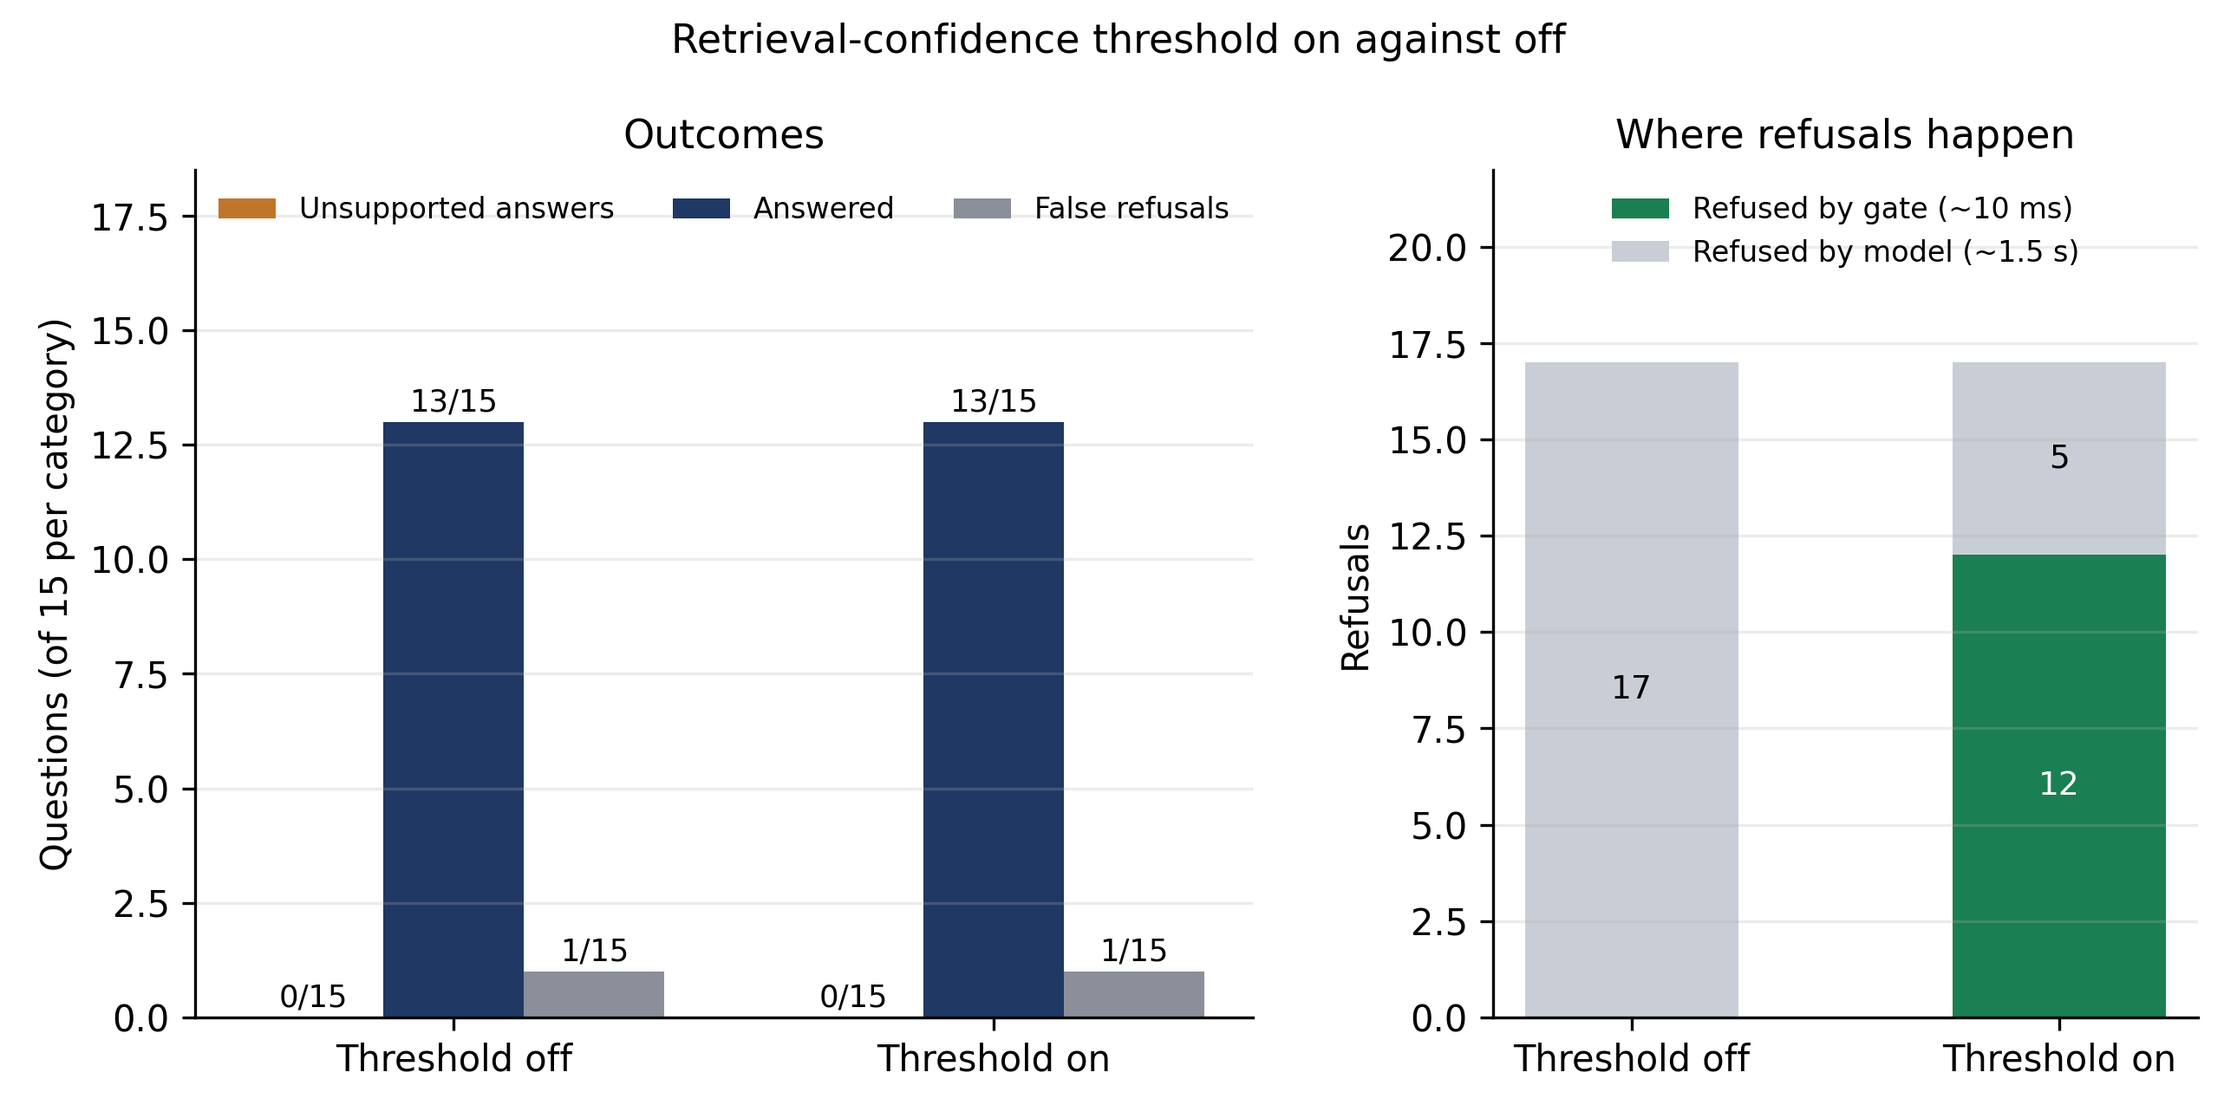
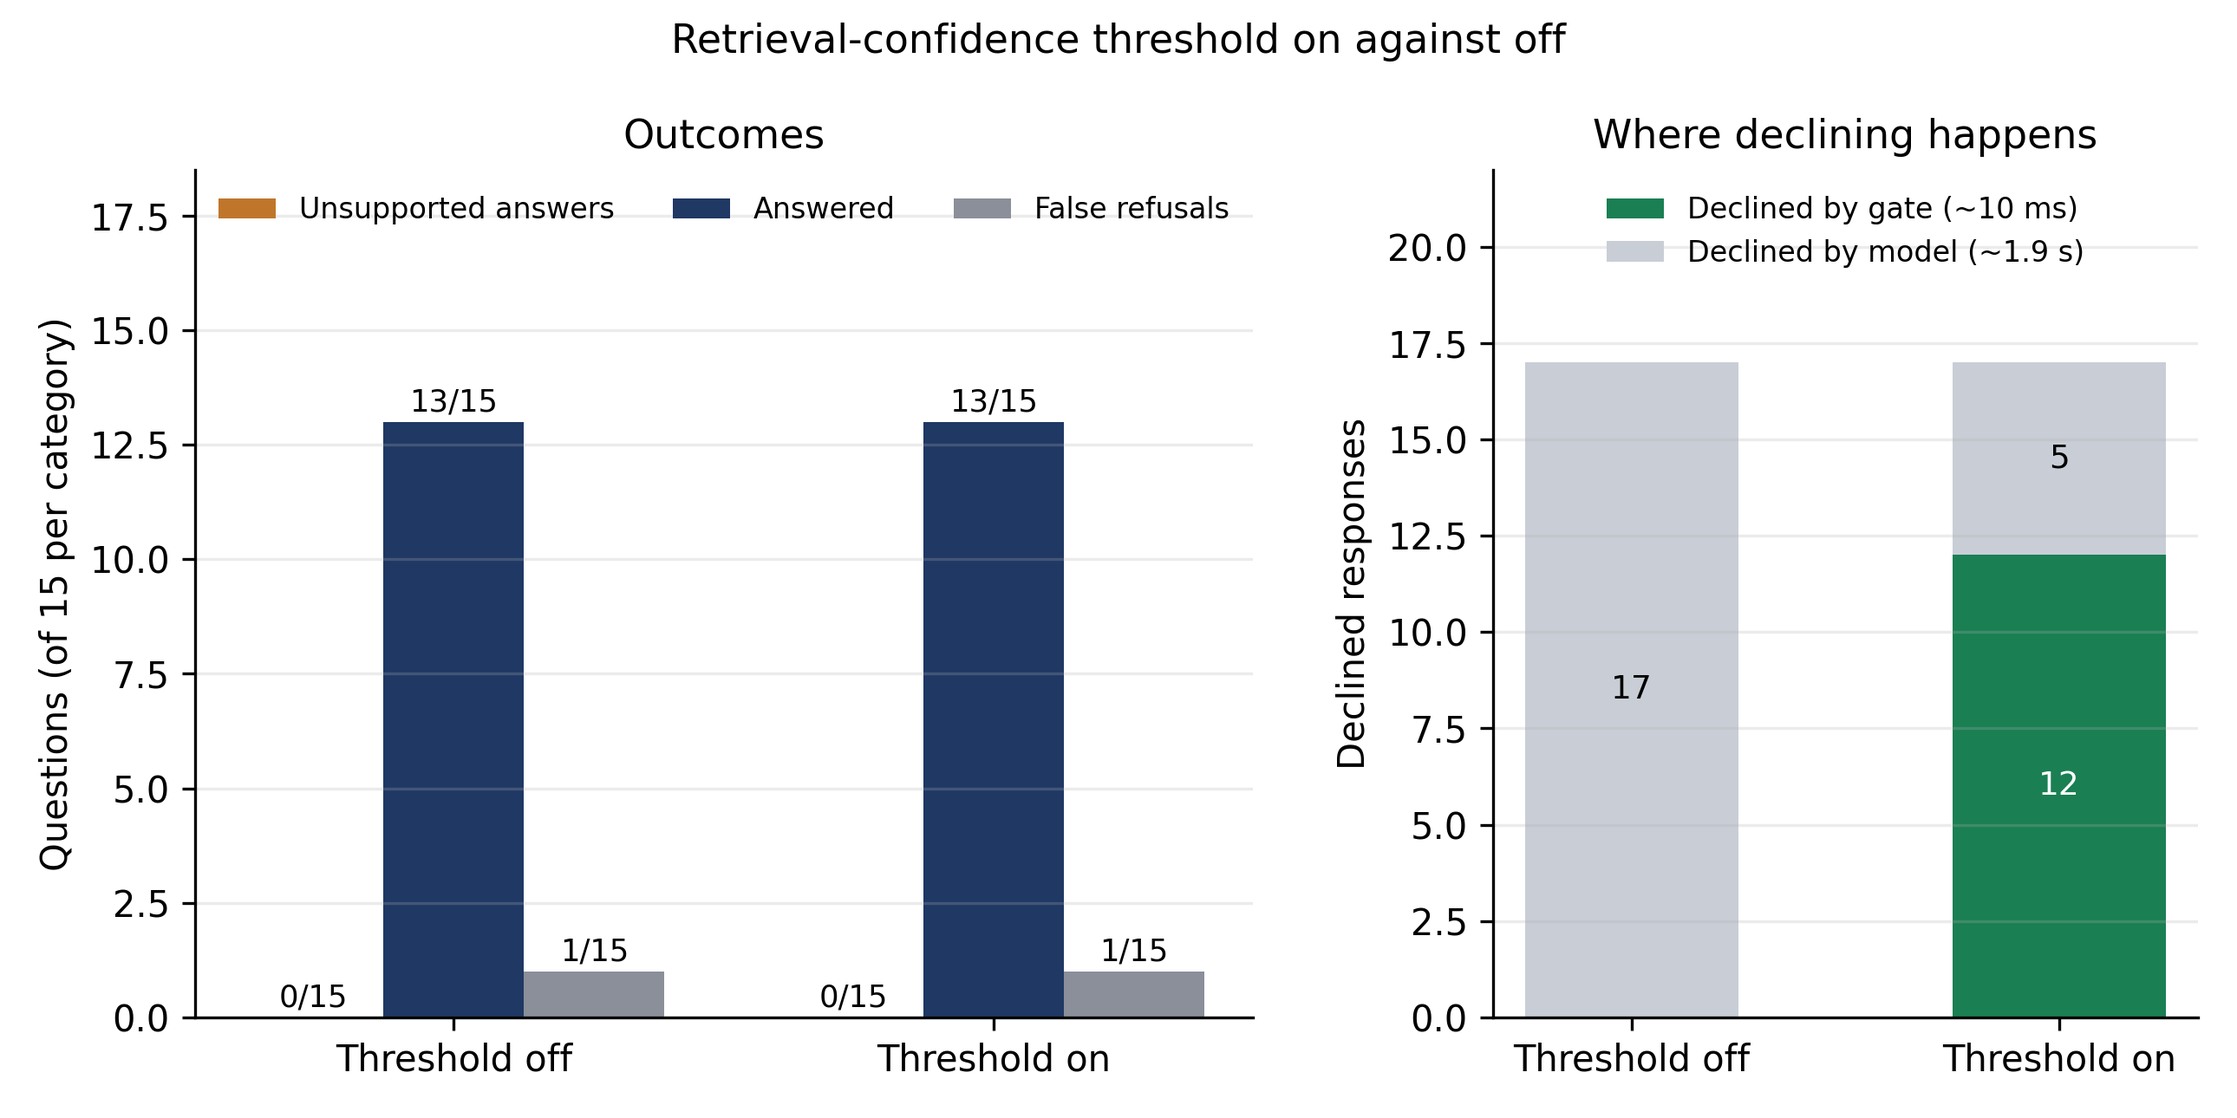
Section refs match final report; README reproduction steps; Fig 5.3 labels; Fig 3.1

Changed region(s): [[0.7132, 0.093, 0.9302, 0.2481], [0.5891, 0.3721, 0.6202, 0.6822]]

diff --git a/tests/test_threshold.py b/tests/test_threshold.py
@@ -1,11 +1,11 @@
 """
-Tests for the retrieval-confidence threshold (Section 4.5 / Section 5.3).
+Tests for the retrieval-confidence threshold (Section 4.5 / Section 5.4).
 
 Why this branch is worth testing rather than eyeballing: when it is wrong
 it does not raise. A threshold that never fires produces fluent answers,
 and a threshold that always fires produces polite refusals. Both look like
 a working system from the outside, and both invalidate every number in
-Section 5.3. The only externally visible signal is *whether the language
+Section 5.4. The only externally visible signal is *whether the language
 model was consulted at all*, which is what most of these tests assert.
 """
 
@@ -19,7 +19,7 @@ import main
 # ---------------------------------------------------------------------------
 def test_shipped_threshold_is_the_value_reported_in_chapter_5():
     """
-    0.53 is the midpoint of the separating margin found in Section 5.2
+    0.53 is the midpoint of the separating margin found in Section 4.5
     (answerable max 0.4799, out-of-corpus min 0.5915). If this drifts, every
     refusal figure in the report describes a system that is no longer the
     one in the repository.
@@ -31,7 +31,7 @@ def test_shipped_threshold_is_the_value_reported_in_chapter_5():
 
 
 def test_shipped_top_k_is_ten():
-    """Section 5.5 selected k=10 over the inherited k=3. Guard against drift."""
+    """Section 5.6 selected k=10 over the inherited k=3. Guard against drift."""
     assert main.TOP_K == 10
 
 
@@ -74,7 +74,7 @@ def test_boundary_exactly_at_the_threshold_does_not_refuse(collection_at, chat_s
     """
     The comparison is strictly greater-than, so a distance equal to the
     threshold is inside it. Stated explicitly because an off-by-one here
-    would shift borderline questions between buckets in Section 5.3
+    would shift borderline questions between buckets in Section 5.4
     without producing any error.
     """
     collection_at([0.53])
@@ -125,7 +125,7 @@ def test_disabling_the_threshold_reaches_the_model_even_when_retrieval_is_poor(
     collection_at, chat_spy
 ):
     """
-    This is the 'threshold off' arm of the Section 5.3 ablation. It must be
+    This is the 'threshold off' arm of the Section 5.4 ablation. It must be
     the *same* code path with one parameter changed, or the ablation is
     comparing two implementations rather than one variable.
     """
@@ -140,7 +140,7 @@ def test_disabling_the_threshold_reaches_the_model_even_when_retrieval_is_poor(
 
 def test_a_threshold_refusal_costs_no_generation_time(collection_at, chat_spy):
     """
-    Section 5.3's defensible benefit is cost, not accuracy: a refused query
+    Section 5.4's defensible benefit is cost, not accuracy: a refused query
     returns in ~0.029 s instead of ~1.8 s because generation never happens.
     """
     collection_at([0.88])
@@ -197,7 +197,7 @@ def test_threshold_of_zero_is_honoured_rather_than_ignored(collection_at, chat_s
 def test_model_judgement_refusal_is_labelled_distinctly(collection_at, monkeypatch):
     """
     With the threshold off, refusal can only be detected from the answer
-    text. Section 5.3 counts the two mechanisms separately, so they must be
+    text. Section 5.4 counts the two mechanisms separately, so they must be
     distinguishable in the response.
     """
     collection_at([0.95])
@@ -217,7 +217,7 @@ def test_model_judgement_refusal_is_labelled_distinctly(collection_at, monkeypat
 
 def test_ungrounded_requests_never_retrieve(collection_at, chat_spy):
     """
-    The 'RAG off' arm of Section 5.2. It must send the bare question — if
+    The 'RAG off' arm of Section 5.3. It must send the bare question — if
     any context leaked into the prompt, the 15/15 hallucination result
     would be measuring a weaker contrast than it claims.
     """

diff --git a/main.py b/main.py
@@ -70,7 +70,7 @@ WHISPER_BEAM = 5
 LLM_TEMPERATURE = float(os.getenv("LLM_TEMPERATURE", "0"))
 LLM_SEED = int(os.getenv("LLM_SEED", "42"))
 
-# Two collections, same documents, different chunking. Section 5.4 compares
+# Two collections, same documents, different chunking. Section 5.5 compares
 # them. "sentence" is the shipped default; "fixed" is the prototype's
 # behaviour, kept so the improvement can be measured rather than asserted.
 COLLECTIONS = {"sentence": "documents_sentence", "fixed": "documents_fixed"}
@@ -173,7 +173,7 @@ async def save_upload(upload: UploadFile) -> str:
 
 
 # --------------------------------------------------------------------------
-# Chunking — the Section 5.4 ablation
+# Chunking — the Section 5.5 ablation
 # --------------------------------------------------------------------------
 def chunk_fixed(text: str) -> List[str]:
     """
@@ -181,7 +181,7 @@ def chunk_fixed(text: str) -> List[str]:
 
     This is what split a sentence mid-clause at
     ", while the written examination contributes 20%."
-    Retained so Section 5.4 has a real baseline rather than a remembered one.
+    Retained so Section 5.5 has a real baseline rather than a remembered one.
     """
     text = re.sub(r"\s+", " ", text).strip()
     if not text:
@@ -227,7 +227,7 @@ def chunk_sentence(text: str) -> List[str]:
     if not _FALLBACK_WARNED:
         print("[chunking] langchain-text-splitters not installed; using the "
               "built-in fallback. It follows the same separator hierarchy but "
-              "does NOT add overlap. Install it before running the Section 5.4 "
+              "does NOT add overlap. Install it before running the Section 5.5 "
               "ablation:  pip install langchain-text-splitters")
         globals()["_FALLBACK_WARNED"] = True
     return _recursive_split(text, ["\n\n", "\n", ". ", " "])
@@ -322,7 +322,7 @@ def looks_like_refusal(answer: str) -> bool:
     """
     Did the language model decline to answer?
 
-    Needed for scoring the threshold-off condition in Section 5.3, where
+    Needed for scoring the threshold-off condition in Section 5.4, where
     refusal is the model's judgement rather than an explicit control-flow
     branch and therefore has to be detected from the text.
     """
@@ -573,7 +573,7 @@ async def ask_audio(audio: UploadFile = File(...), use_rag: bool = Form(True)):
     The transcript is returned alongside the answer. This is a transparency
     feature, not debug output: it is what lets the user tell a transcription
     failure apart from a retrieval failure — a distinction that matters most
-    on technical vocabulary, where Section 5.6 measured the highest word
+    on technical vocabulary, where Section 5.7 measured the highest word
     error rate.
     """
     path = await save_upload(audio)

diff --git a/eval/exp_latency.py b/eval/exp_latency.py
@@ -1,5 +1,5 @@
 """
-exp_latency.py — Section 5.8, end-to-end latency.
+exp_latency.py — Section 5.9, end-to-end latency.
 
 The preliminary report set a sub-10-second non-functional requirement and
 measured ~15 s steady state on the prototype. This is where that NFR is met
@@ -7,7 +7,7 @@ or revised with measured justification.
 
 Why this script is not a simple timing loop
 -------------------------------------------
-Running the Section 5.2-5.5 ablations under deterministic decoding produced
+Running the Section 5.3-5.6 ablations under deterministic decoding produced
 three separate runs of one identical configuration. Every correctness
 outcome agreed exactly across all three. The median latencies were
 **40.64 s, 3.11 s and 3.25 s** — a thirteen-fold spread on a pipeline that
@@ -34,8 +34,8 @@ Four things follow, and this script implements all four.
 3.  **Retrieved context size is recorded per request.** Generation time on
     CPU is dominated by prompt processing, so context length is the
     explanatory variable behind the k=3 versus k=10 gap. Recording it turns
-    Section 5.8 from a table of durations into a statement about what drives
-    them, and lets `--k` produce the latency-versus-k curve that Section 5.5
+    Section 5.9 from a table of durations into a statement about what drives
+    them, and lets `--k` produce the latency-versus-k curve that Section 5.9
     needs in order to state the true cost of raising k.
 
 4.  **The threshold is disabled throughout.** A refused query returns in
@@ -444,7 +444,7 @@ def main():
         print("causes, in order: the model was evicted and reloaded mid-run; thermal")
         print("throttling under sustained CPU load; another process competing for")
         print("memory. Re-run with --cooldown 30 and nothing else running before")
-        print("quoting any of these numbers in Section 5.8.")
+        print("quoting any of these numbers in Section 5.9.")
     else:
         print(f"\nAll conditions stable across blocks (drift ratio <= {DRIFT_LIMIT}).")
 

diff --git a/tests/test_endpoints.py b/tests/test_endpoints.py
@@ -40,7 +40,7 @@ def test_health_reports_the_shipped_configuration(client, collection_at, monkeyp
 
 def test_health_shows_whisper_unloaded_until_first_use(client, collection_at, monkeypatch):
     """
-    Lazy Whisper loading (Section 4.3) is a deliberate trade: the text path
+    Lazy Whisper loading (Section 4.4) is a deliberate trade: the text path
     never pays the 10-20 s model load, and the cost reappears as a cold start
     on the first spoken question. That decision is only defensible if it is
     observable, so /health reports residency rather than hiding it.
@@ -141,7 +141,7 @@ def test_rag_disabled_sends_the_bare_question_and_reports_no_sources(
     client, chat_spy, collection_at
 ):
     """
-    The ungrounded condition of Section 5.2. The model must receive the
+    The ungrounded condition of Section 5.3. The model must receive the
     question with no context wrapper at all -- if any instruction leaked into
     the prompt, the 15/15 fabrication result would be measuring a weakened
     version of the baseline rather than the baseline.
@@ -217,7 +217,7 @@ def test_placeholder_zero_top_k_falls_back_to_the_configured_default(
 
 
 def test_explicit_top_k_is_passed_through_to_retrieval(client, chat_spy, collection_at):
-    """The Section 5.5 sweep is a request parameter; k must arrive unchanged."""
+    """The Section 5.6 sweep is a request parameter; k must arrive unchanged."""
     fake = collection_at([0.31] * 3)
 
     client.post("/ask", json={"question": "What is perplexity?", "top_k": 3})

diff --git a/tests/test_speech.py b/tests/test_speech.py
@@ -1,7 +1,7 @@
 """
 The speech path: /transcribe and /ask/audio.
 
-Section 5.6 measured 19.7% word error rate overall and 37.8% on technical
+Section 5.7 measured 19.7% word error rate overall and 37.8% on technical
 vocabulary -- the words that carry the retrieval signal. That result is the
 reason the transcript is returned to the user rather than consumed silently,
 and the reason the voice flow is two requests rather than one. Both of those
@@ -37,7 +37,7 @@ def test_transcribe_uses_the_decoding_settings_the_report_measured(client, whisp
     The decisions log commits to base.en / int8 / beam 5 in both main.py and
     evaluate_asr.py, so that the measured word error rate describes the
     system that ships rather than a differently-tuned one. If the endpoint
-    ever drifted from the evaluation script, Section 5.6 would be reporting
+    ever drifted from the evaluation script, Section 5.7 would be reporting
     somebody else's numbers.
     """
     spy = whisper_spy()
@@ -66,7 +66,7 @@ def test_transcribe_deletes_the_temporary_file(client, whisper_spy):
 def test_transcribe_preserves_the_upload_extension(client, whisper_spy):
     """
     faster-whisper dispatches on the container format, which it reads from
-    the filename. The Section 5.6 clips are .m4a; a temp file that silently
+    the filename. The Section 5.7 clips are .m4a; a temp file that silently
     became .wav would fail to decode for reasons nothing in the traceback
     would explain.
     """

diff --git a/tests/test_decoding.py b/tests/test_decoding.py
@@ -15,7 +15,7 @@ twice, in two separate runs, and the two runs disagreed:
            disagreement on one of the three related-but-unanswerable
            questions
 
-Two of fifteen. Most of the effects reported in Sections 5.3 and 5.4 are
+Two of fifteen. Most of the effects reported in Sections 5.4 and 5.5 are
 of that size or smaller, so under stochastic decoding they were not
 separable from run-to-run variance.
 
@@ -54,7 +54,7 @@ def test_grounded_generation_requests_deterministic_decoding(collection_at, chat
 
 def test_ungrounded_generation_requests_deterministic_decoding(collection_at, chat_spy):
     """
-    The RAG-off arm of Section 5.2 takes a different branch through
+    The RAG-off arm of Section 5.3 takes a different branch through
     `answer_question`. It reaches the same single call site, and this test
     is what keeps it that way.
     """
@@ -68,7 +68,7 @@ def test_refused_requests_make_no_generation_call_at_all(collection_at, chat_spy
     """
     Determinism on the refusal path is structural rather than statistical:
     a threshold refusal returns a fixed string without consulting the model,
-    so it cannot vary between runs. Stated here so the claim in Section 5.3
+    so it cannot vary between runs. Stated here so the claim in Section 5.4
     that refusal became *deterministic and inspectable* has a test behind it
     rather than only an argument.
     """

diff --git a/eval/exp_retrieval.py b/eval/exp_retrieval.py
@@ -1,5 +1,5 @@
 """
-exp_retrieval.py — Section 5.7, retrieval precision@k.
+exp_retrieval.py — Section 5.8, retrieval precision@k.
 
 Measures the retrieval step on its own, with no language model involved.
 This matters because Section 2.4 establishes that answer quality in a
@@ -13,7 +13,7 @@ top 10 retrieved chunks. Mark each 1 (relevant) or 0 (not), then rerun
 without --label to score.
 
 The labelling is done by one person — the author — who also wrote the
-queries. That is a real limitation and Section 5.7 should name it rather
+queries. That is a real limitation and Section 5.8 should name it rather
 than hope nobody asks.
 
 Usage
@@ -133,7 +133,7 @@ def score():
     print(out.to_string(index=False))
     print("\nPrecision falling as k rises is expected and not a problem in")
     print("itself — what matters is whether k=3 captures the relevant passage")
-    print("often enough. Read this against the top-k sweep in Section 5.5:")
+    print("often enough. Read this against the top-k sweep in Section 5.6:")
     print("precision here, answer quality there.")
 
 

diff --git a/eval/make_figures_v3.py b/eval/make_figures_v3.py
@@ -148,8 +148,8 @@ def fig_threshold():
 
     gate = list(s.threshold_refusals.astype(int))
     model = list(s.model_refusals.astype(int))
-    b1 = ax2.bar(x, gate, 0.5, color=GREEN, label="Refused by gate (~10 ms)")
-    b2 = ax2.bar(x, model, 0.5, bottom=gate, color=LIGHT, label="Refused by model (~1.5 s)")
+    b1 = ax2.bar(x, gate, 0.5, color=GREEN, label="Declined by gate (~10 ms)")
+    b2 = ax2.bar(x, model, 0.5, bottom=gate, color=LIGHT, label="Declined by model (~1.9 s)")
     for i in range(len(conds)):
         if gate[i]:
             ax2.text(i, gate[i] / 2, str(gate[i]), ha="center", va="center", color="white", fontsize=9)
@@ -158,7 +158,7 @@ def fig_threshold():
     ax2.set_xticklabels(conds)
     ax2.set_ylim(0, 22)
     ax2.legend(frameon=False, fontsize=8, loc="upper center")
-    style(ax2, "Refusals", "Where refusals happen")
+    style(ax2, "Declined responses", "Where declining happens")
     fig.suptitle("Retrieval-confidence threshold on against off", fontsize=11)
     save(fig, "fig5_3_threshold_ablation.png")
     return s

diff --git a/tests/test_upload_and_extraction.py b/tests/test_upload_and_extraction.py
@@ -3,7 +3,7 @@ Document ingestion (FR3) and the error paths around it.
 
 Upload is the one endpoint that mutates the corpus, so its failure modes
 matter more than its happy path: a document that ingests into only one
-collection quietly invalidates the Section 5.4 comparison for everything
+collection quietly invalidates the Section 5.5 comparison for everything
 added afterwards, and a temporary file that survives a rejected upload is a
 leak nothing in the interface would reveal.
 """
@@ -20,7 +20,7 @@ import main
 # --------------------------------------------------------------------------
 def test_upload_ingests_into_both_chunking_collections(client, collections_by_key):
     """
-    Section 5.4 compares fixed-size against sentence-aware chunking on the
+    Section 5.5 compares fixed-size against sentence-aware chunking on the
     same documents. That is only a like-for-like comparison while both
     collections hold the same corpus -- so an upload through the interface
     has to write into both, not just the one being served.

diff --git a/eval/exp_rag.py b/eval/exp_rag.py
@@ -118,7 +118,7 @@ def sweep(df, collection="sentence"):
     # a whole interval of thresholds that classify both perfectly, and the
     # midpoint of that interval is the maximum-margin choice. That is a
     # structural justification rather than a fitted one, and it is a far
-    # stronger answer in Section 5.3 and in the exam.
+    # stronger answer in Section 5.4 and in the exam.
     a_max = dist[dist.category == "answerable"]["nearest_distance"].max()
     b_min = dist[dist.category == "out_of_corpus"]["nearest_distance"].min()
     print()
@@ -156,7 +156,7 @@ def sweep(df, collection="sentence"):
     print(f"\nSet it in main.py:  DISTANCE_THRESHOLD = {best.threshold:.2f}")
     print("Then read threshold_distances.csv and check WHICH questions sit near")
     print("the boundary. A threshold chosen from a single summary number is a")
-    print("threshold you cannot defend in Section 5.3.")
+    print("threshold you cannot defend in Section 5.4.")
     return g
 
 

diff --git a/eval/exp_squad.py b/eval/exp_squad.py
@@ -1,5 +1,5 @@
 """
-exp_squad.py — Section 5.9, SQuAD 2.0 Exact Match and F1.
+exp_squad.py — Section 5.2, SQuAD 2.0 Exact Match and F1.
 
 SQuAD 2.0 is the citable benchmark. Its unanswerable subset is the part that
 speaks to this project's thesis: those questions have a plausible-looking
@@ -250,7 +250,7 @@ def main():
     print("=" * 52)
     print(s.to_string(index=False))
     print("\nReport the unanswerable subset separately — it is the part that")
-    print("speaks to the thesis. Note in Section 5.9 that SQuAD paragraphs are")
+    print("speaks to the thesis. Note in Section 5.2 that SQuAD paragraphs are")
     print("short and clean relative to real course PDFs, so these figures are")
     print("an upper bound on performance over the project's own corpus.")
 

diff --git a/tests/test_distance_metric.py b/tests/test_distance_metric.py
@@ -161,7 +161,7 @@ def test_collections_created_on_demand_request_cosine(monkeypatch):
 
 def test_ingest_builds_both_collections_from_mains_configuration():
     """
-    Section 5.4 is only a fair ablation if both collections were built from
+    Section 5.5 is only a fair ablation if both collections were built from
     the same source pass with the same embedding model, differing solely in
     the chunker. `ingest.py` imports its configuration from `main.py` for
     exactly this reason; this guards against the two drifting apart.
